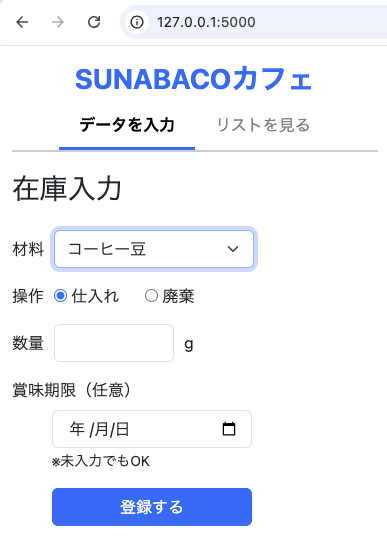
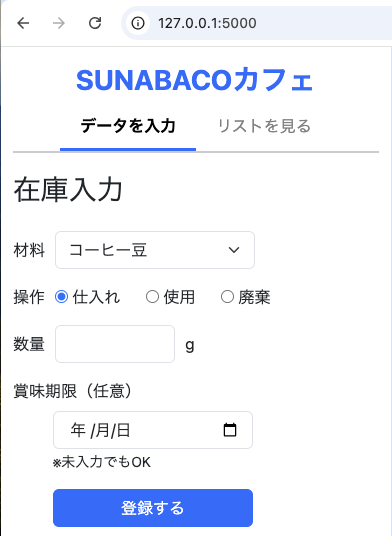
Update UI and README screenshots

diff --git a/templates/input.html b/templates/input.html
@@ -60,6 +60,9 @@
             <label class="me-3">
                 <input type="radio" name="action" value="仕入れ" checked> 仕入れ
             </label>
+            <label class="me-3">
+                <input type="radio" name="action" value="使用"> 使用
+            </label>
             <label>
                 <input type="radio" name="action" value="廃棄"> 廃棄
             </label>          
@@ -70,7 +73,6 @@
             <label class="form-label mb-0">数量</label>
                 <input type="number" name="quantity" class="form-control" required style="width: 120px;">
                 <span id="unit">g</span>
-            </div>
         </div>
 
         <!-- 賞味期限 -->

diff --git a/app.py b/app.py
@@ -78,7 +78,11 @@ def dashboard():
     cur = conn.cursor()
 
     # 全データ
-    cur.execute("SELECT item, action, quantity, expiry, date FROM inventory_log")
+    cur.execute("""
+        SELECT item, action, quantity, expiry, date 
+        FROM inventory_log
+        ORDER BY date DESC
+    """)
     rows = cur.fetchall()
 
     # 時間調整
@@ -107,6 +111,7 @@ def dashboard():
     cur.execute("""
         SELECT item,
         SUM(CASE WHEN action = '仕入れ' THEN quantity ELSE 0 END) -
+        SUM(CASE WHEN action = '使用' THEN quantity ELSE 0 END) -
         SUM(CASE WHEN action = '廃棄' THEN quantity ELSE 0 END)
         FROM inventory_log
         GROUP BY item
